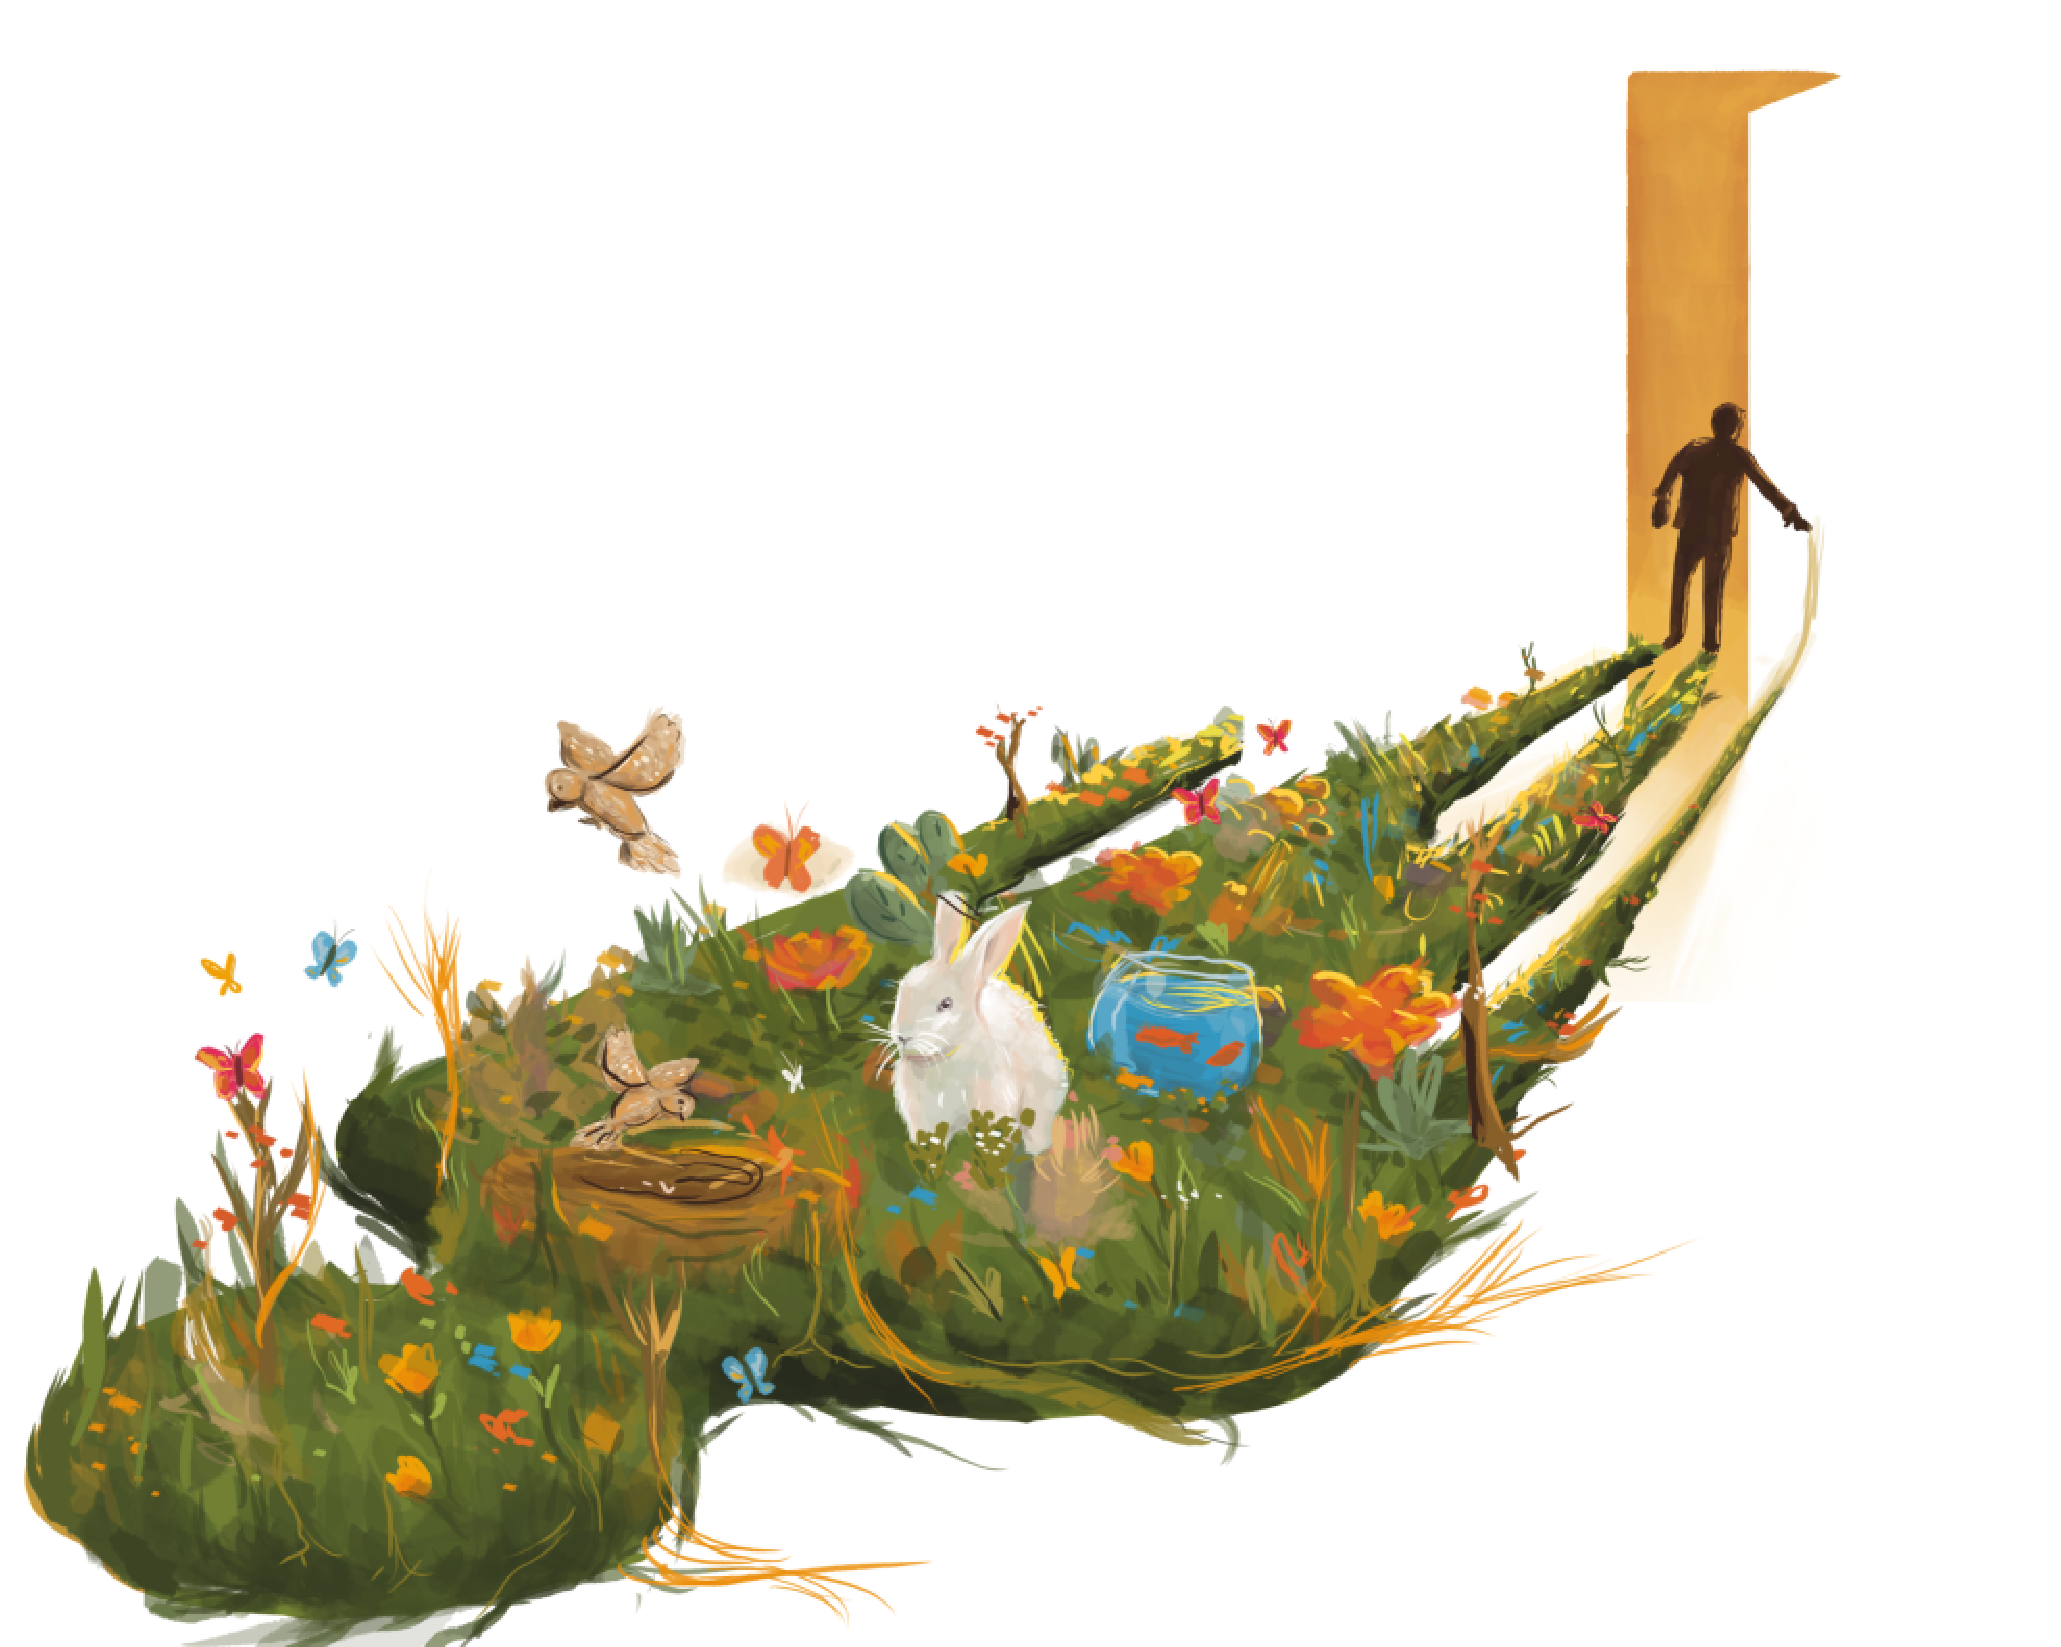
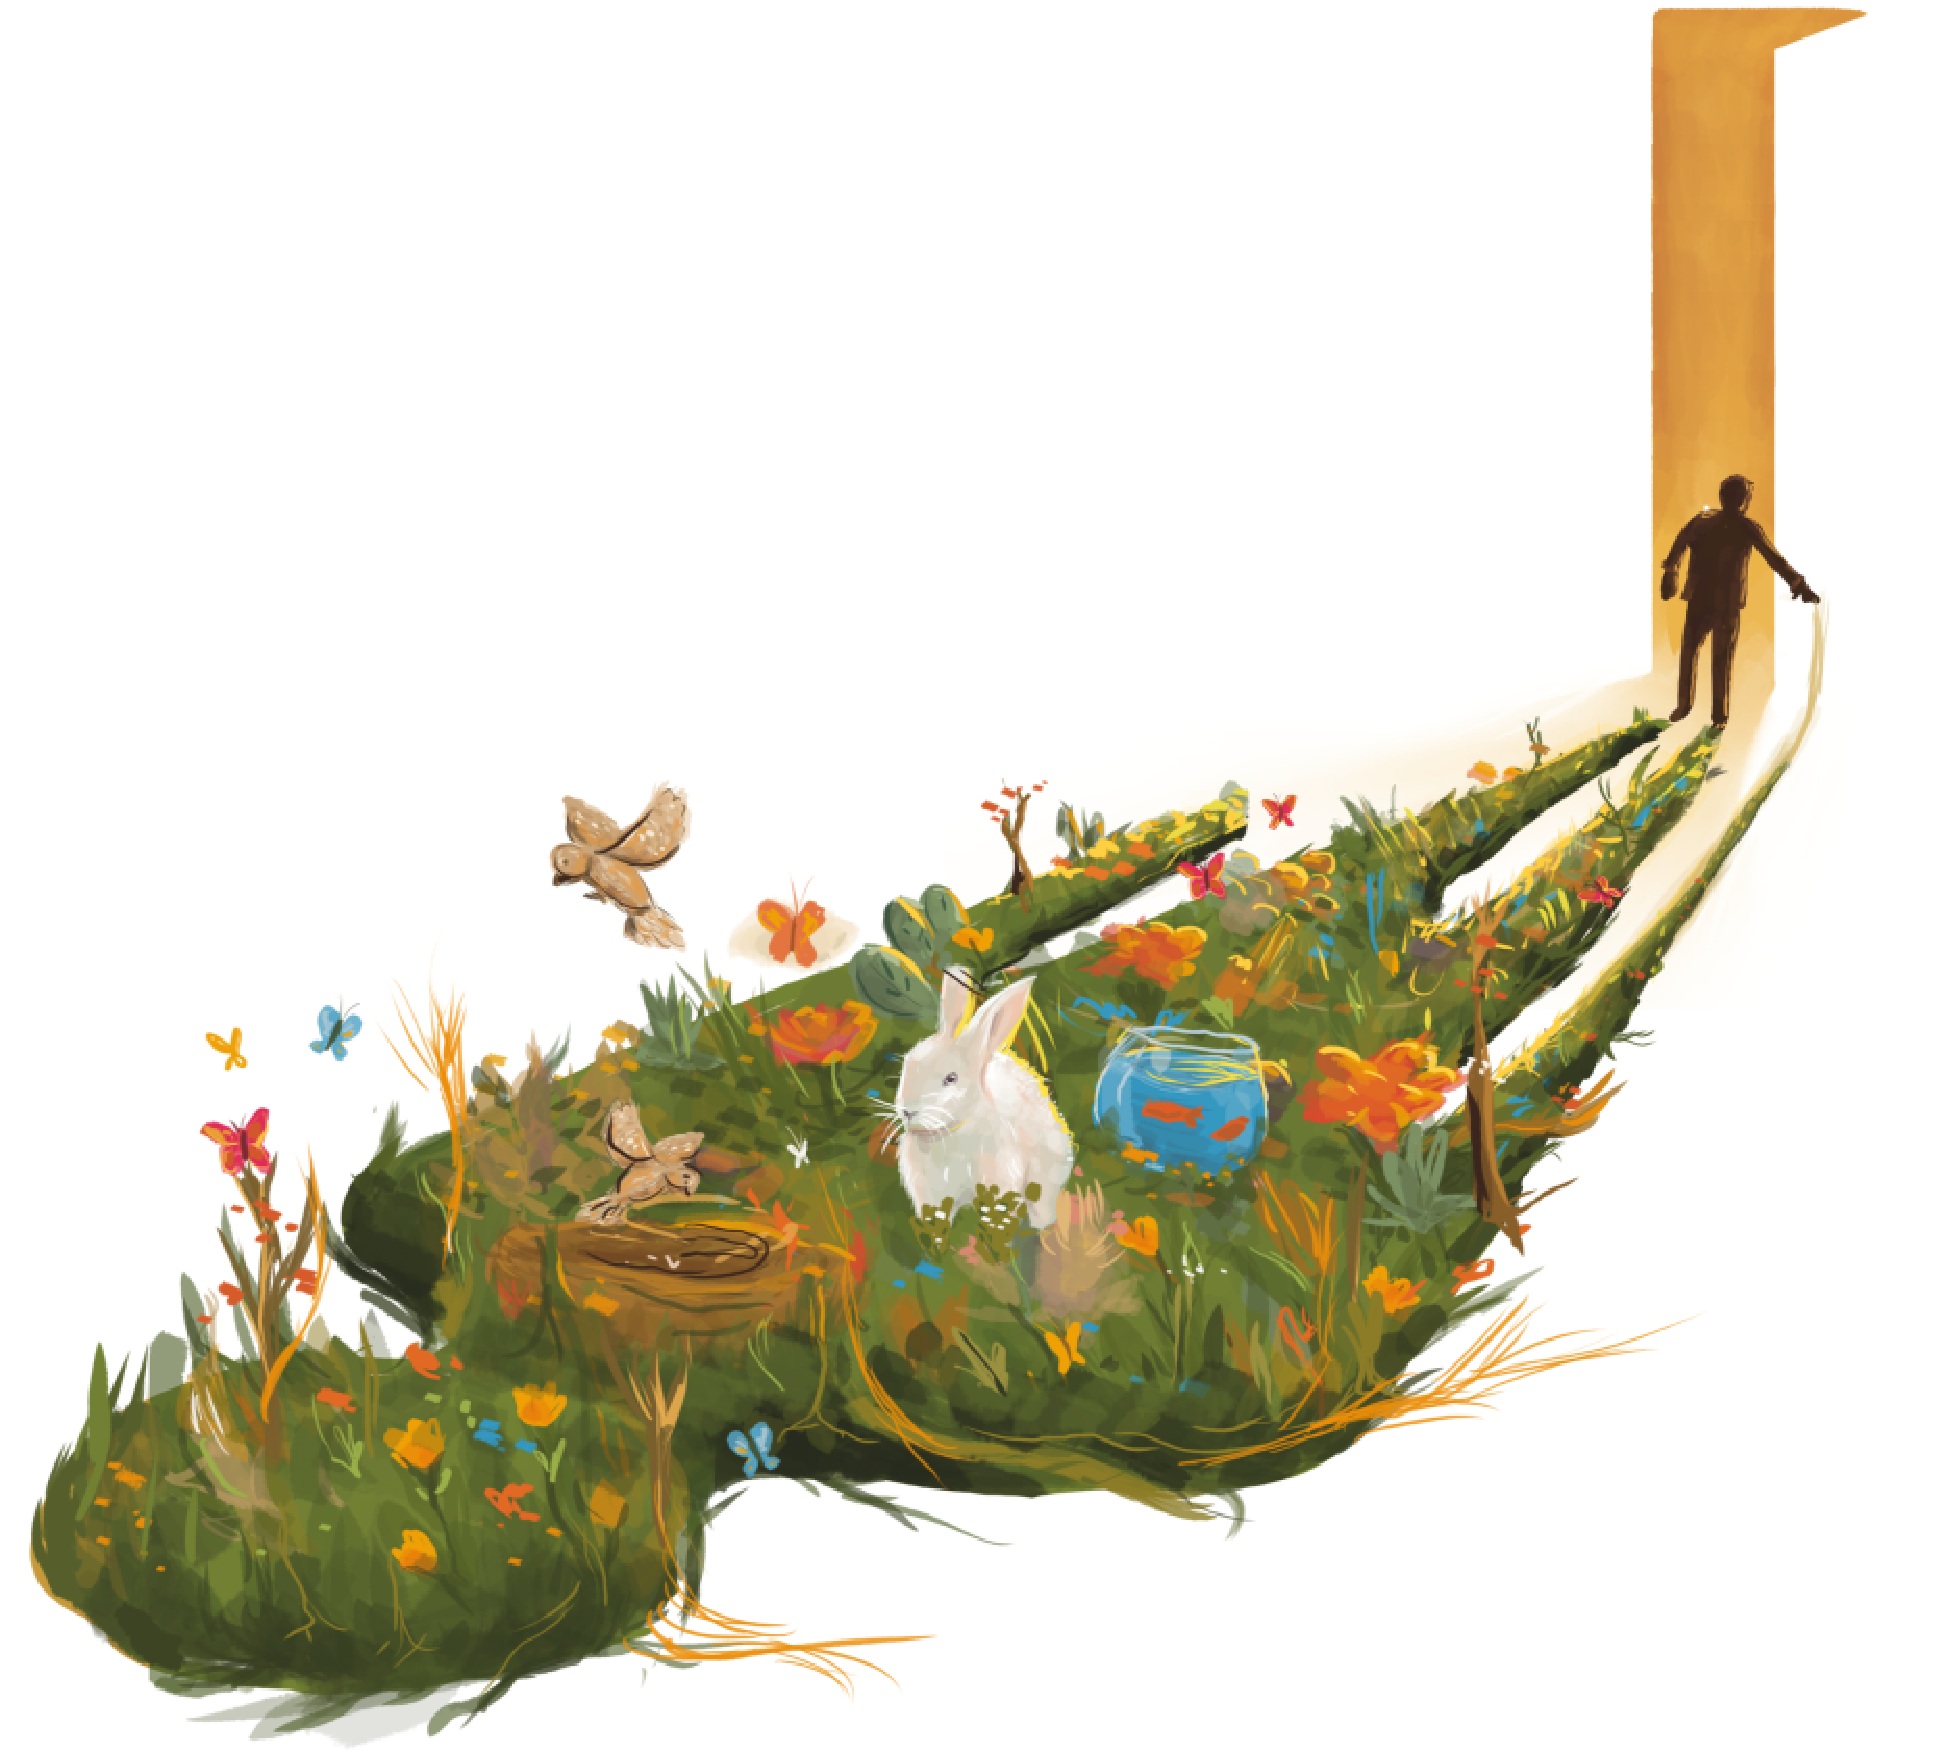
hero fix

Changed region(s): [[0.0, 0.0, 0.9612, 1.0]]

diff --git a/styles/styles.css b/styles/styles.css
@@ -86,13 +86,13 @@ nav ul a{
 
 .message-container{
   position: relative;
-  height: 120vh;
+  height: 130vh;
 }
 
 .illustration-container{
   position: absolute;
   bottom: -32px;
-  right: calc(100% /12);
+  right: calc(100% /8);
 }
 
 .banner-bg1 {
@@ -240,6 +240,11 @@ nav ul a{
 @media (min-width: 1024px) {
     .rotated-arrow {
         display: block !important
+    }
+
+    .message-container{
+      position: relative;
+      height: 130vh;
     }
 
     .row-reverse-lg {

diff --git a/index.html b/index.html
@@ -18,7 +18,7 @@
 </head>
 
 <body>
-  
+
     <nav class="pb-5 hide">
         <ul class="px-3">
             <li class="logo">

diff --git a/styles/typo.css b/styles/typo.css
@@ -52,7 +52,7 @@ h5 {
   }
 
   .lead-para {
-    font-size: 26px;
+    font-size: 29px;
     line-height: 40px;
   }
 
